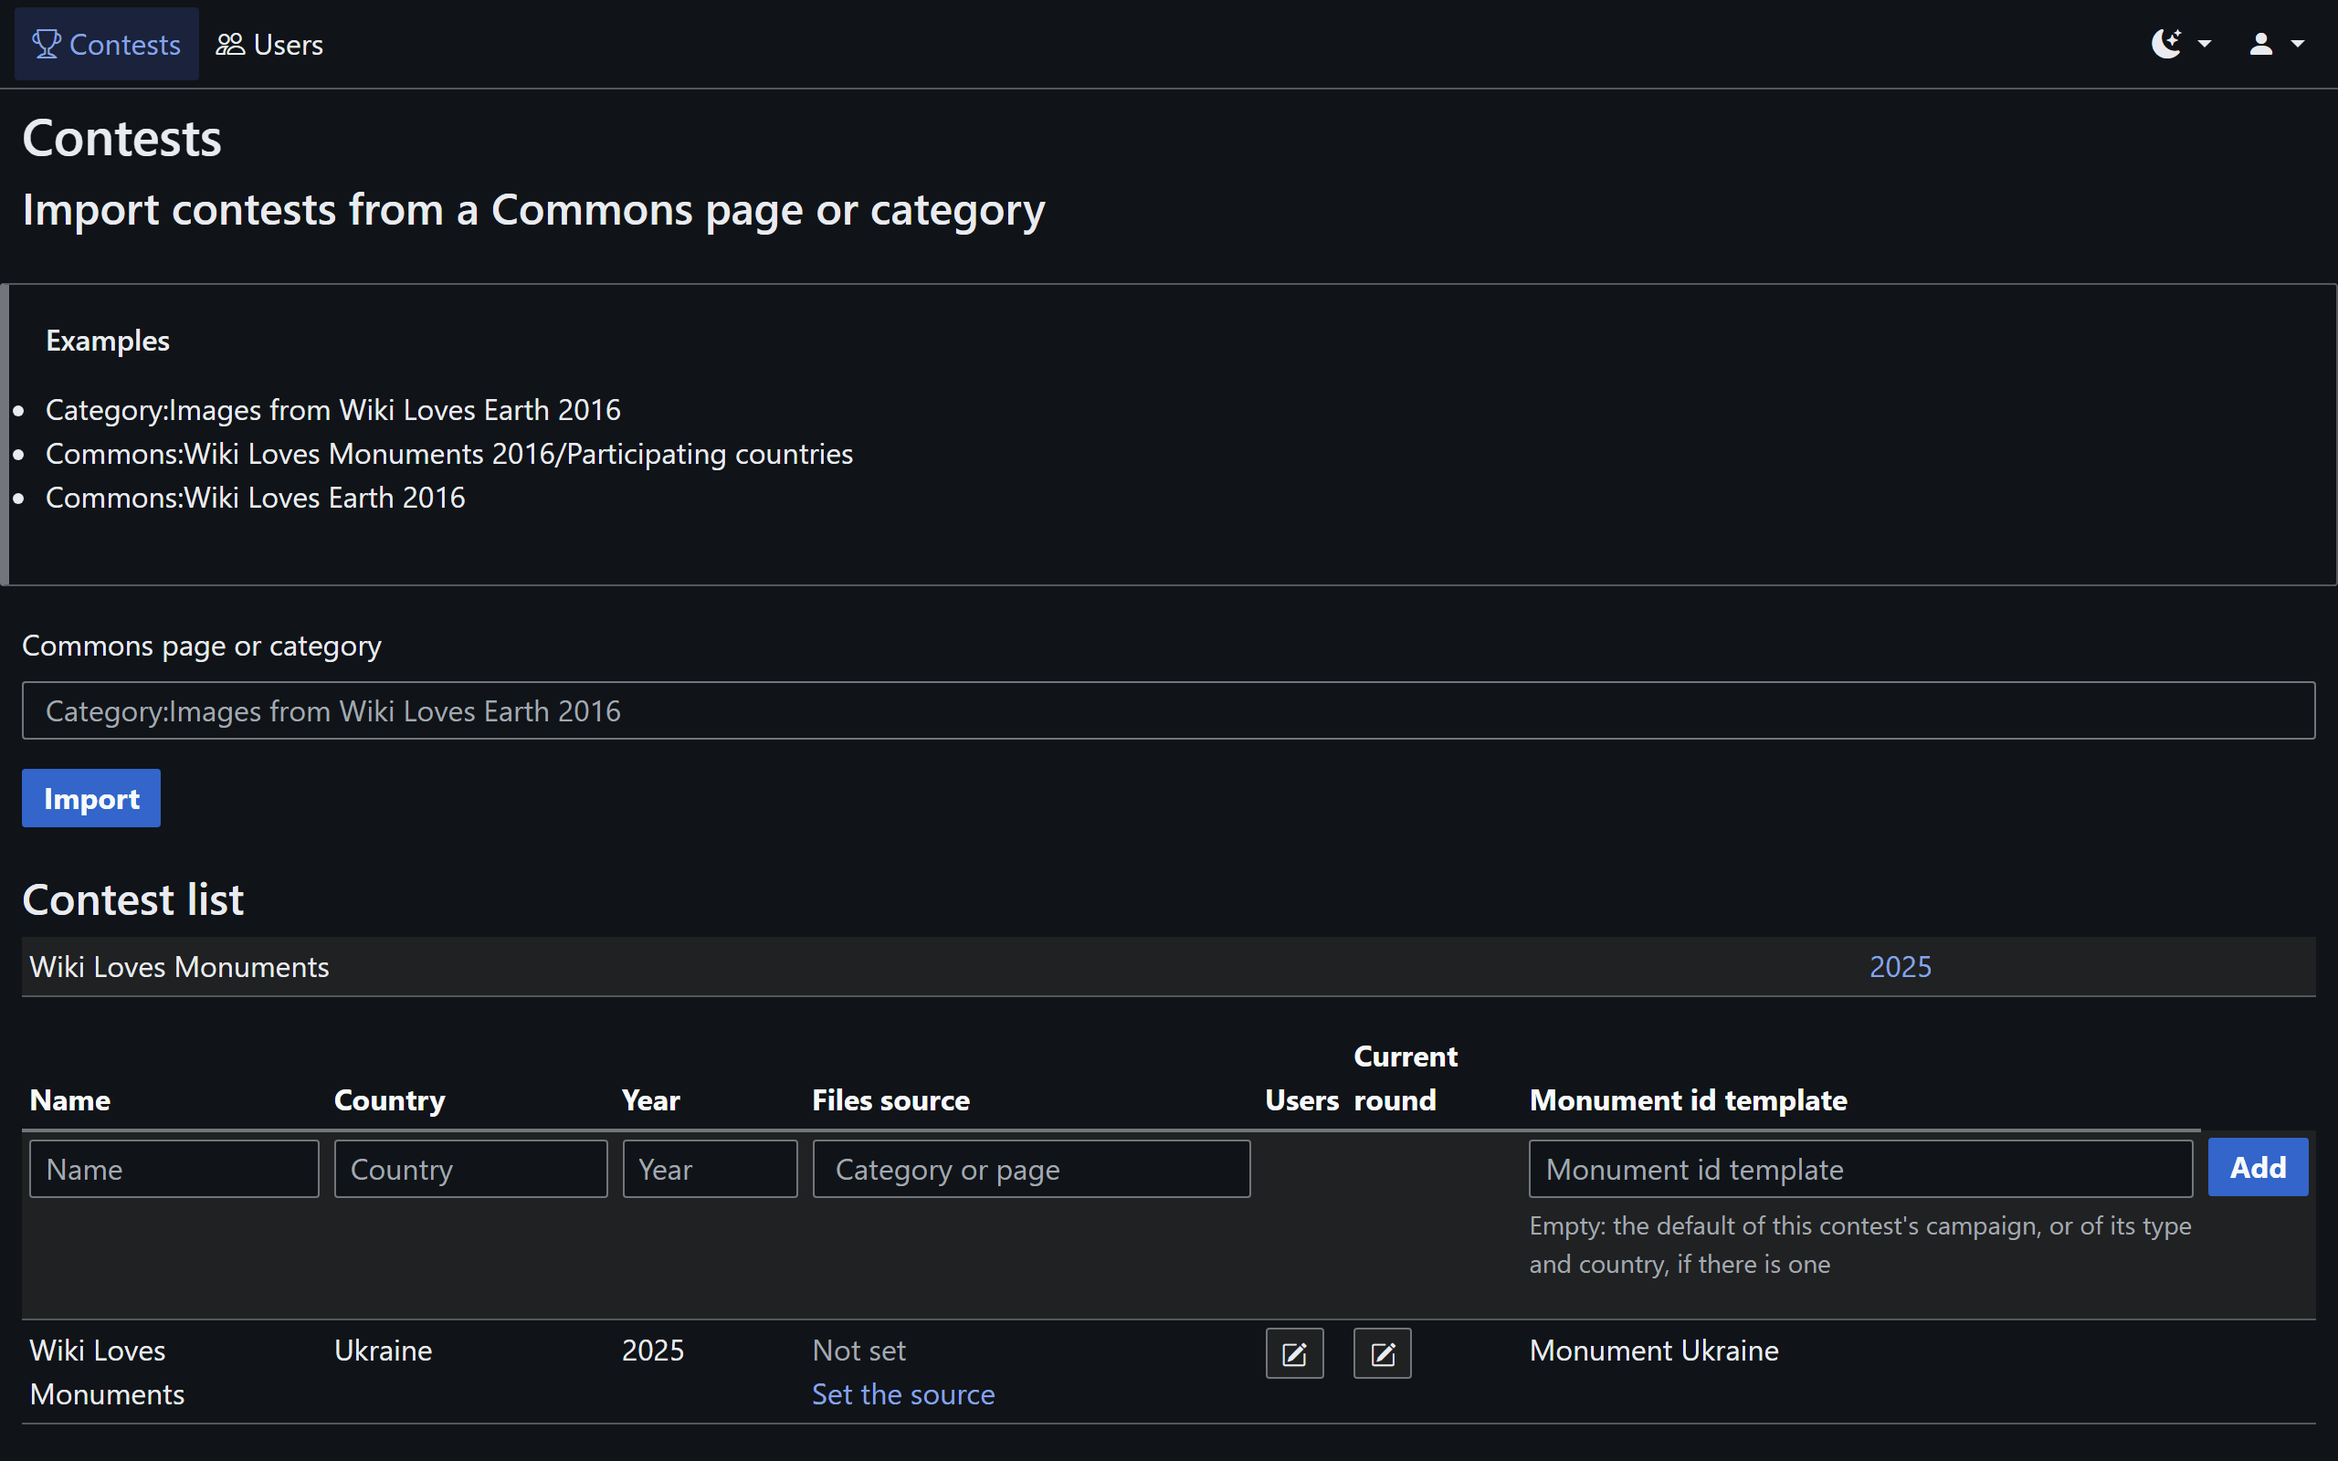
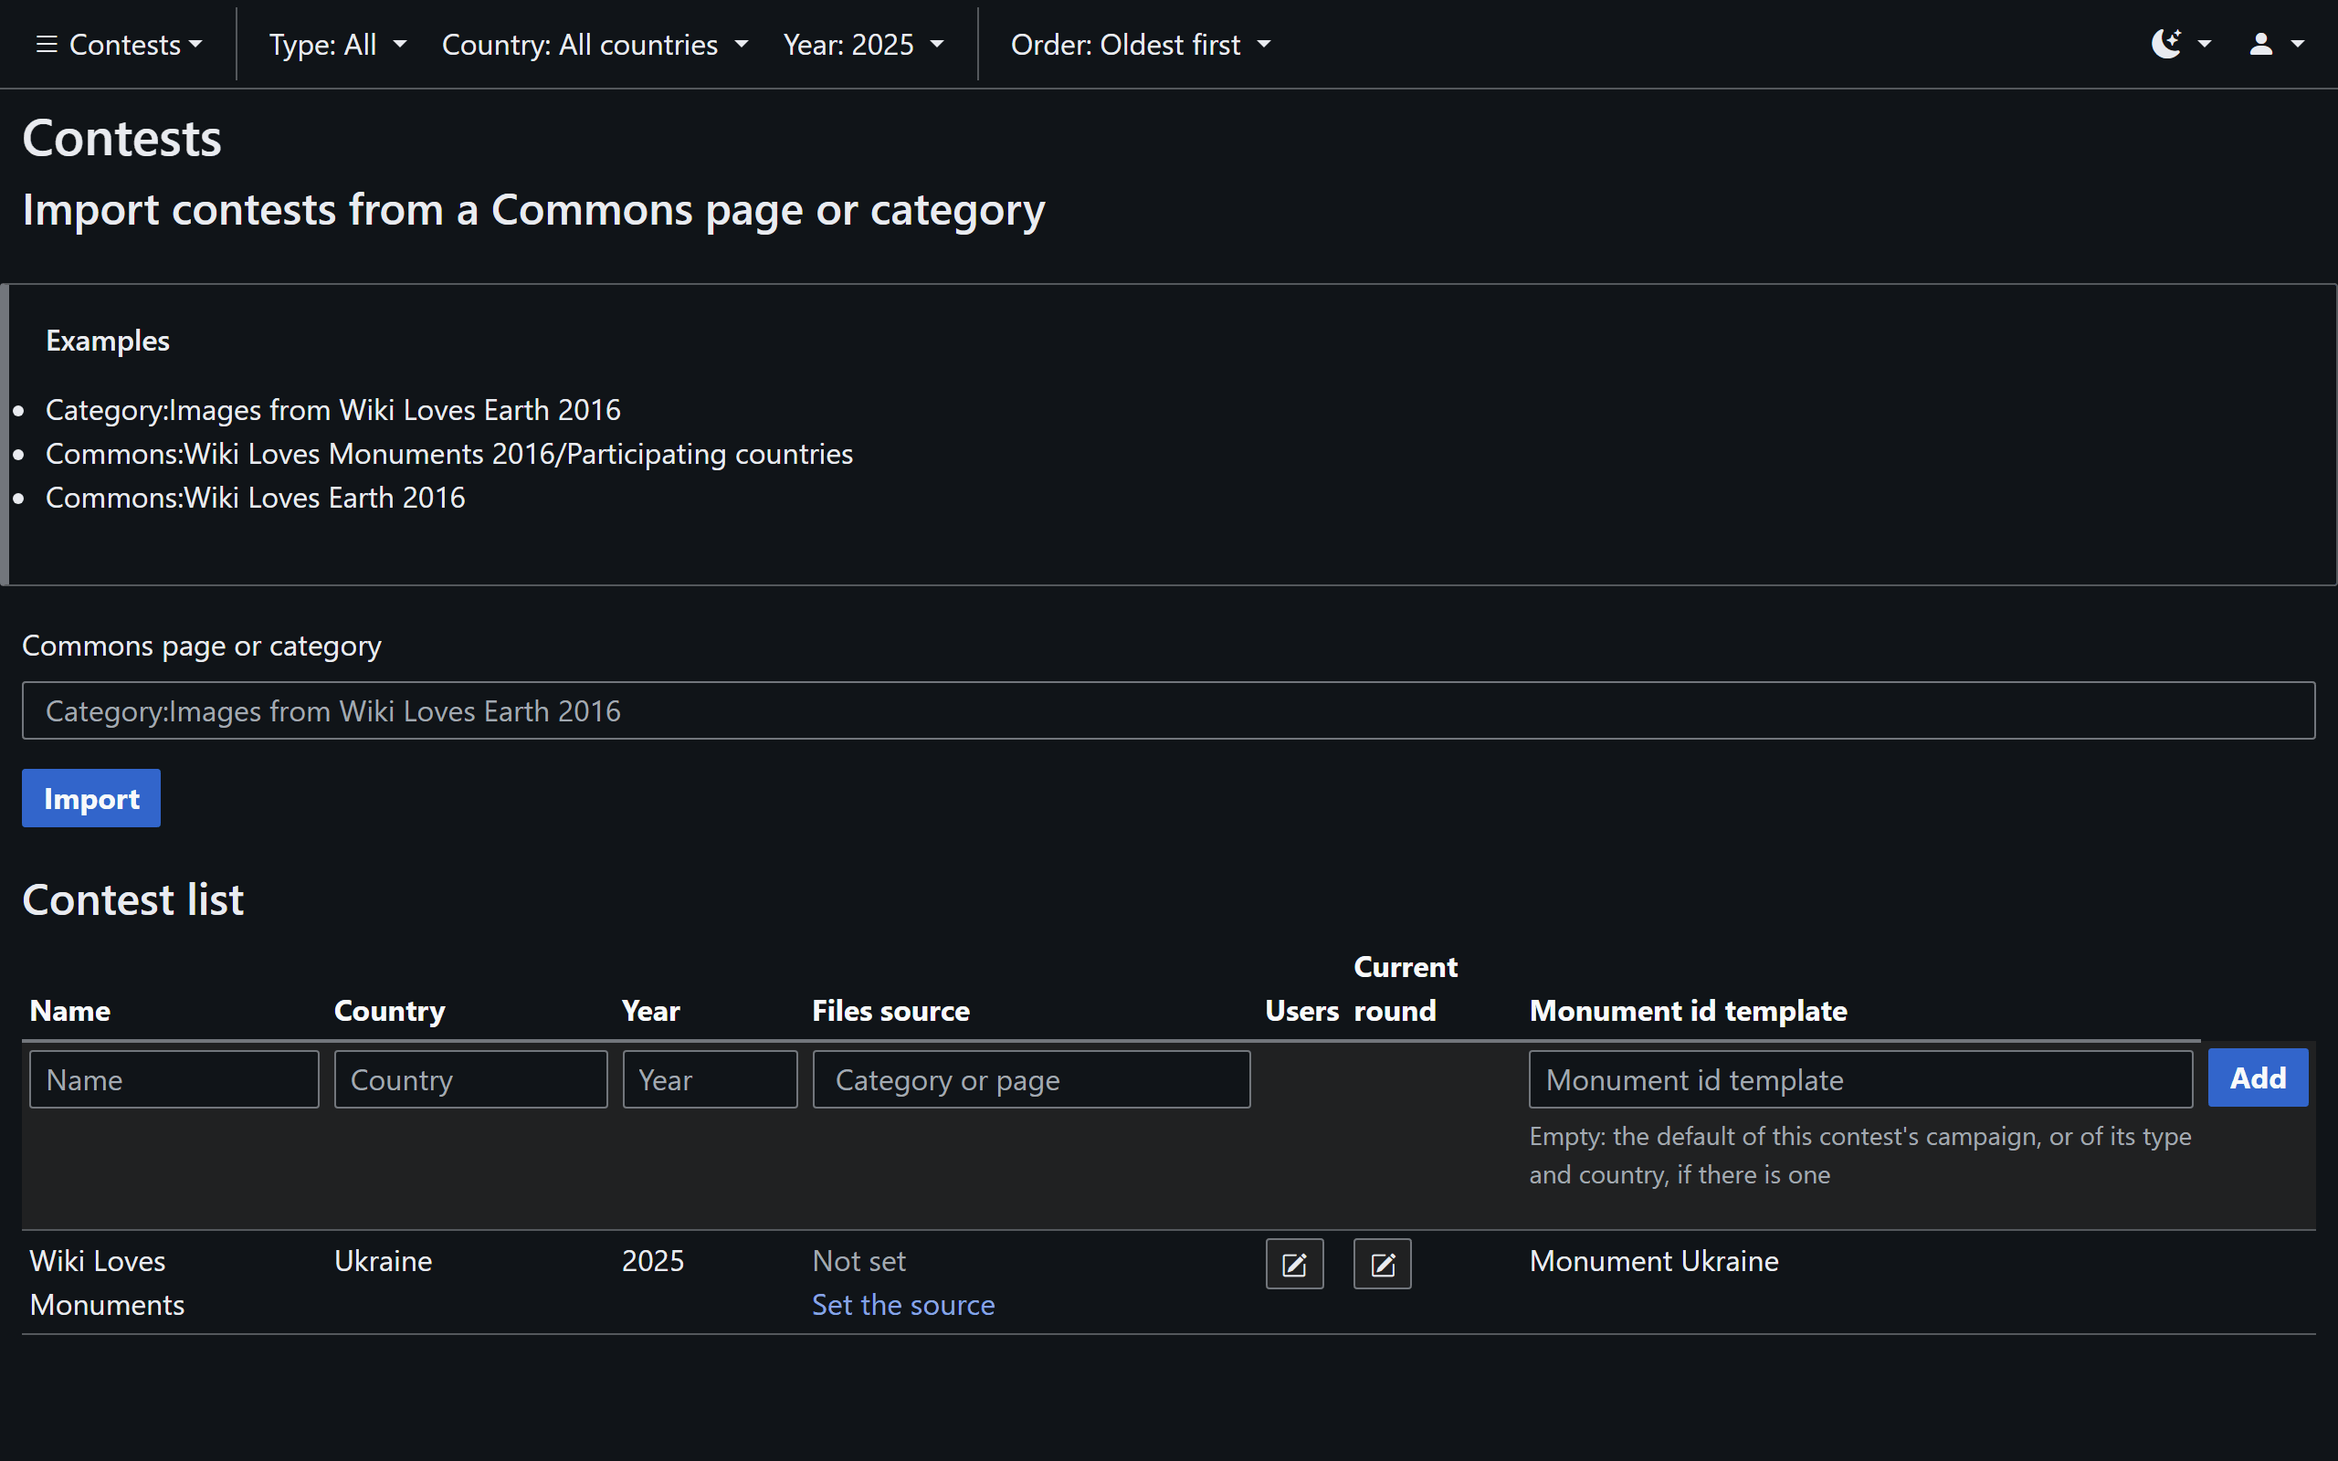
Guide screenshots and text for 26.11.14 (UkrainianWiki/wlxjury-archive#390)
PR: https://github.com/UkrainianWiki/wlxjury-archive/pull/390

**Guide screenshots and text for 26.11.14.**

Squashed from UkrainianWiki/wlxjury-archive@2e18e3516692ca03ae4a16c034faaf14fbb1aea6 (stack/207-guide-shots).

diff --git a/browser-test/tests/docs-screenshots.spec.js b/browser-test/tests/docs-screenshots.spec.js
@@ -188,6 +188,15 @@ test.describe('the guides\' screenshots', () => {
         await expect(page.locator('.bi-x-lg'), 'no worst-mark icon on the rated shot: restart the docs-mode server').toHaveCount(0);
       },
     });
+    // a round with criteria (docs mode's own round, UiShotsServer): the criteria's stars and numbers
+    expect(fixture.docsCriteria, 'the docs-mode server has a round with criteria: restart it').not.toBeNull();
+    await shot(contextAs, 'juror', largePath(fixture.docsCriteria.roundId, juror.id, fixture.docsCriteria.pageId), 'juror-large-view-criteria', {
+      // the controls column down to the "Voted" line under the last criterion, and the photo
+      ...LARGE_TOP, height: 322,
+      prepare: async (page) => {
+        await expect(page.locator('.large-stars'), 'a star row for each of the three criteria').toHaveCount(3);
+      },
+    });
     await shot(contextAs, 'juror', `/users/edit/${juror.id}`, 'juror-profile', { crop: '#edit-user' });
   });
 

diff --git a/browser-test/lib/server.js b/browser-test/lib/server.js
@@ -86,6 +86,9 @@ export function fixtureFor(browserName) {
     // the rounds' type icons (rounds-filter.spec.js): a contest of its own with 30 rounds of every
     // type, active and not, names of very different lengths; 0 in the guides' screenshot mode
     roundsContestId: s.roundsContestId || 0,
+    // the guides' screenshots only: a running round with criteria in the fixture's contest, with
+    // the juror above, and the juror's file rated on every criterion; null in other runs
+    docsCriteria: s.docsCriteria || null,
     // a running round of one criterion in a contest of its own, and this engine's juror of it, with
     // three files (criteria-form.spec.js); null in the guides' screenshot mode
     oneCriterion: s.oneCriterion

diff --git a/docs/user/admin-guide.md b/docs/user/admin-guide.md
@@ -707,7 +707,12 @@ Wikipedia) asks for stars on each criterion; a file's rate is the sum. You choos
 criteria for the round from the shared **Criteria catalogue**, which has a link on the round
 form: **Add criteria** shows a criterion's list, **Add another criterion** one more, and × beside
 a criterion removes it. With one criterion the round is rated as usual (the file's rate is that
-criterion's stars, and the digit keys rate it), and the large view shows the criterion's name. After the round's first vote you can only replace a criterion by another in its place.
+criterion's stars, and the digit keys rate it), and the large view shows the criterion's name.
+If the contest's latest round has criteria, a new round starts with them and with that round's
+rating type; otherwise it starts as Yes/No without criteria. Choose another rating type, or remove
+the criteria with ×, to drop them. Once a round is started (running, or with a vote), its criteria can't be
+changed: the form lists them, and a round started without criteria can't get any. A round
+stopped before its first vote keeps the full form.
 
 <a id="a-stages"></a>
 ### The life of a round
@@ -725,7 +730,9 @@ criterion's stars, and the digit keys rate it), and the large view shows the cri
 
 Open **Rounds** at the start of the top bar (or in the pages menu there). The list shows, for each round: its **Number** (a link to the
 round form), its **Name** (a link to the round's statistics), the **File distribution**, the **Rating type**, whether it is
-**Active** (started), the number of **Images** and the state of its distribution.
+**Active** (started), the number of **Images** and the state of its distribution. The
+**Contest health** link under the contest's name opens the contest's health report (see
+[Importing the contest's files](#a-import-files)).
 
 Before each name, an icon shows the round's type: a tick and a cross for **Yes/No**, a star for
 **Rated** (a criteria round is rated too; a comments-only round has no icon). The icons are in
@@ -748,7 +755,7 @@ comes back to the same list. Starting or stopping a round, and the round form's 
 
 **Add round** creates a new round.
 
-<img src="images/admin-rounds-list.png" alt="The rounds list, with the Status, Type and Order menus in the top bar and each round's Active and type badges" width="1280">
+<img src="images/admin-rounds-list.png" alt="The rounds list, with the Status, Type and Order menus in the top bar, each round's type icon before its name and the Active column" width="1280">
 
 <a id="a-create-round"></a>
 ### Creating a round
@@ -783,7 +790,10 @@ The jurors are chosen on the jurors form when the round is distributed, and can'
 the form of a distributed round. To work with other jurors, create another round. Later you can pause and resume
 a juror, see [Pausing a juror](#a-pause-juror).
 
-<img src="images/admin-new-round-form.png" alt="The round form, with the Media filtering and Add files sections opened" width="853">
+<img src="images/admin-new-round-form.png" alt="The round form, with the Media filtering and Add files sections opened, and the criteria of the contest's latest round" width="853">
+
+Here the contest's latest round has criteria, so the form starts with them and its 1–5 rating;
+with criteria the form has no worst mark.
 
 <a id="a-choose-files"></a>
 ### Choosing the round's files
@@ -1000,8 +1010,8 @@ Open the round from the rounds list: its number is a link. On an existing round 
 
 - the round's name;
 - the [file score](#a-score-rule) and, in a rated round, the [worst mark](#a-worst-mark), at any time;
-- in a rated round, the criteria, only by replacing one in its place once the round has votes
-  (a yes/no or comments-only round's form has neither);
+- in a rated round, the criteria, only before the round is started (not running and no vote
+  yet; a yes/no or comments-only round's form has neither);
 - **Leave out conflicts of interest**, see [Leaving them out of a round](#a-leave-out-conflicts);
 - **Add files** and **Distribute N new files**.
 
@@ -1103,6 +1113,11 @@ read before the Wikidata items were stored get theirs the next time it runs. Whe
 operators have set up a local image cache, **Download images locally** fills it. These run as
 background jobs, with their progress. When the download has nothing to fetch, it says whether all
 the files were already cached or there were none, with the time it checked.
+
+**Contest health**, under the contest's name, opens a read-only report on the contest: its
+files and import sources, and checks of its rounds (for example empty, frozen or being
+created, and which are open to jurors). Only the contest's admins and root see the link and the
+page.
 
 <img src="images/admin-contest-images.png" alt="The page for importing the contest's files" width="1280">
 

diff --git a/docs/user/images/README.md b/docs/user/images/README.md
@@ -10,7 +10,11 @@ The fixture's files carry real Commons file names and authors, so the spec repla
 numbered examples before each shot, and the link to share shows a neutral host. In docs mode the
 server also makes the yes/no round's last file Juror 12's own (`gatling.setup.UiShotsServer`), so
 that the round has a conflict of interest: its statistics page keeps the conflicts link, which
-the organizer guide follows to the conflicts page.
+the organizer guide follows to the conflicts page. It also adds a running round rated by
+criteria (Aesthetics, Technical quality, Usefulness for Wikipedia) to the contest, with that
+juror and six of their files, the first rated on every criterion, for the juror guide's large
+view of a round with criteria. Being the contest's latest round, it is the third round on the
+rounds list and the statistics, and the new round form starts with its criteria.
 
 **Platform of the current set:** Windows 11 Pro (10.0.26200), Playwright 1.64.1 with its bundled
 Chromium (156), the app's own font stack, 2026-11-17, all 28 regenerated together for the Codex
@@ -18,12 +22,19 @@ restyle (`stack/184`); the same day, on the same platform, the four that show th
 conflict of interest (below) again: `organizer-round-statistics-link`, `organizer-conflicts`,
 `organizer-contest-files` and `admin-new-round-form`; on 2026-11-18, on the same platform, the two
 whose bar and round menu the rounds' Status, Type and Order menus and badges changed (`stack/187`):
-`admin-rounds-list` and `organizer-round-statistics`. Text rendering depends on the operating system, so regenerate all the
-images together on one platform and update this line.
+`admin-rounds-list` and `organizer-round-statistics`; on 2026-11-20, on the same platform, all 28
+regenerated together with the new `juror-large-view-criteria` (`stack/207`), keeping the 18 whose
+only differences were dates, the share link's token or palette noise, and replacing the 10 the UI
+changed: `admin-contests` (its Type, Country, Year and Order menus), `admin-rounds-list` and
+`organizer-round-statistics` (type icons, and the docs fixture's criteria round as a third round),
+`organizer-round-statistics-link`, `admin-contest-images` (the contest health link),
+`admin-new-round-form` (the criteria section, from that latest round), `organizer-contest-files`
+and the three large views (the icon after **Full resolution**). Text rendering depends on the
+operating system, so regenerate all the images together on one platform and update this line.
 
-**Size:** 28 images, about 4.6 MiB in all. The largest are the two galleries (about 700 and 610
-KiB), the contest's files (about 650 KiB) and the by-rate results (about 720 KiB); the three large views are cropped to the controls
-column and the top of the photo (about 320 to 400 KiB each), with the comment box in its own small shot;
+**Size:** 29 images, about 5.0 MiB in all. The largest are the two galleries (about 700 and 610
+KiB), the contest's files (about 650 KiB) and the by-rate results (about 720 KiB); the four large views (yes/no, rated, worst mark, criteria) are cropped to the controls
+column and the top of the photo (about 320 to 410 KiB each), with the comment box in its own small shot;
 the others stay small. The profile, user-edit, share-link and score-rule shots are cropped to
 their forms, below the navbar, and the root user-edit shot to its Root and Role fields. Photos make 2x PNGs large, so
 `browser-test/docs-optimize-png.py` reduces each image to a 256-colour palette after the spec

diff --git a/docs/user/juror-guide.md b/docs/user/juror-guide.md
@@ -393,8 +393,8 @@ upward arrow (**Previous image**) and the downward arrow (**Next image**). Point
 shows its name. Then come the vote buttons or stars. Click the image to open the file's page on Commons in a new tab.
 
 The left column also has **File details**: the full resolution with a link to the original
-file, and for monuments the place and the monument. **Next files** shows the files after this
-one. Click a heading to show or hide its section; the tool remembers which are open.
+file (the Commons icon after **Full resolution** marks a link that opens Commons in a new tab),
+and for monuments the place and the monument. **Next files** shows the files after this one. Click a heading to show or hide its section; the tool remembers which are open.
 
 Videos play in the large view.
 
@@ -458,14 +458,14 @@ to go back to that file.
 In a round with criteria, the large view lists the criteria, each with its own stars and
 number. Click the stars of each criterion.
 
+<img src="images/juror-large-view-criteria.png" alt="The large view of a round with criteria: each criterion's name, number and stars" width="820">
+
 The view stays on the file while you rate its criteria. Go to the next file yourself with the
 buttons or the Down key.
 
 A round with **one criterion** is rated like any rated round: the gallery names the criterion
 at its top ("Rate: …") and has stars under each file, the large view shows the criterion's name
 above its stars, the digit keys rate it, and a vote moves on to the next file.
-
-<!-- screenshot to add: the large view of a round with criteria -->
 
 ### Keyboard shortcuts in the large view
 

diff --git a/docs/user/organizer-guide.md b/docs/user/organizer-guide.md
@@ -57,7 +57,7 @@ configured yet**.
   choices keep it, else the first round they list, else the round itself, which says none match.
   A round opened from a saved or shared link whose choices leave it out still shows in the row,
   selected, with a dashed outline: point at it for **Not in the chosen filter**. The choices stay
-  in the page's address and when you switch round. The round menu of the galleries shows the same badges and grey names, without these menus.
+  in the page's address and when you switch round. The round menu of the galleries shows the same icons and grey names, without these menus.
 - The pages menu at the start of the top bar (its button the menu icon and the page you are on,
   **Statistics** here) opens the other pages: **Contest files** opens the contest's files, and
   **Statistics**, on every page of the contest, the statistics of the round you are looking at,
@@ -142,7 +142,7 @@ Under the table:
 A link whose number is 0 is plain text. The numbers of the conflicts and authors links appear
 a moment after the page; until then, the links work without them.
 
-<img src="images/organizer-round-statistics.png" alt="The statistics page: the Status, Type and Order menus in the top bar, the row of rounds with their Active and type badges, and a row for each juror, with the Voting column" width="1280">
+<img src="images/organizer-round-statistics.png" alt="The statistics page: the Status, Type and Order menus in the top bar, the row of rounds with their type icons, and a row for each juror, with the Voting column" width="1280">
 
 ## Results
 
